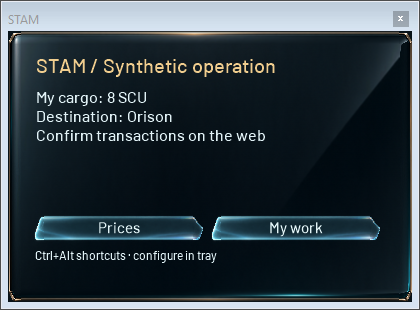
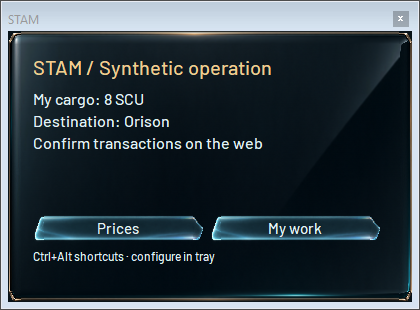
Document verified medium fonts and panorama Windows captures

diff --git a/PROJECT_STATUS.md b/PROJECT_STATUS.md
@@ -1,10 +1,10 @@
-## 2026-11-17 연출 — 앱 1.5 네이티브 디자인 완료 / 미배포
+## 2026-11-17 연출 — 앱 확정 글꼴·사업부 배경 수정 / 미배포
 
-`cinematic/companion-15-design-20261117`, PR #41. 최신 기능 인계 `434b50e`에서 분기해 실제 Windows 앱에 승인 D 검은 유리·금색 프레임, A 금속 계기판, 청록 버튼 원본 PNG를 적용했다. 글자는 기존 Barlow/SUIT 네이티브 컨트롤이며 원본 STAM 로고를 사용한다. 앱 창에서 기존 오버레이·단축키·마이크 기능을 열 수 있고 트레이 동작을 유지한다. 바깥 프레임 고정·작은 창 본문 스크롤·버튼 투명 배경을 실제 캡처로 마감했다.
+`cinematic/companion-15-design-20261117`, PR #41. 확정 서체 Barlow Medium 500·SUIT Medium 500 원본 파일을 유지하면서 Windows GDI TextRenderer/ClearType 표시로 변경했다. 실제 선택 폰트와 굵기 500을 Windows에서 검사하고 증거를 저장했다. 연결 창 배경은 승인 사업부 전경 원본으로 교체했으며 오버레이·설정창의 기존 검은 유리 배경은 유지한다. 기존 D 프레임·A 계기판·청록 버튼과 로그/트레이/음성/단축키 기능은 보존한다.
 
-Windows 검증 코드 `1db50ad9c4d5414197d44dcdcbff388275e4b3b9`, 실행 `44095313988` 성공: 컴파일·Node 8개·번들 로그 연결·언어·트레이/재시작·단축키/오버레이·설치/재설치/제거 설정 보존 확인. 한영 기본/작은 창/하단 및 오버레이 캡처 8장 저장. 실제 게임·마이크·다중 모니터 고배율은 미검증이다.
+Windows 검증 코드 `1616a772956129f350993847e3061d39592faf76`, 실행 `44099416549` 성공: 컴파일·Node 8개·번들 로그 연결·언어·트레이/재시작·단축키/오버레이·설치/재설치/제거 설정 보존·실제 Barlow/SUIT Medium 500 선택 확인. 한영 기본/작은 창/하단 및 오버레이 캡처 8장 갱신. 실제 게임·마이크·다중 모니터 고배율은 미검증이다.
 
-인계: `docs/cinematics/companion-15-design-20261117/HANDOFF.md`. #36에서 에셋만 재사용했으며 이전 앱 코드는 복원하지 않았다. 웹 무역 튜토리얼 #40과 독립. 웹·로그 파서·계정·운송/무역·프로토콜·공개 버전/다운로드는 보존. main·공통 인계 병합 및 공개 배포 없음. 기능 담당이 새 앱 릴리스 버전을 정해 통합·검증·배포한다.
+인계: `docs/cinematics/companion-15-design-20261117/HANDOFF.md`. #36에서 승인 에셋만 재사용했으며 이전 앱 코드는 복원하지 않았다. 웹 무역 튜토리얼 #40과 독립. 웹·로그 파서·계정·운송/무역·프로토콜·공개 버전/다운로드는 보존. main·공통 인계 병합 및 공개 배포 없음. 기능 담당이 새 앱 릴리스 버전을 정해 통합·검증·배포한다.
 
 ## 2026-11-17 배포 완료 — 웹3.1.0 / 로그 앱1.5
 

diff --git a/desktop/theme/README.md b/desktop/theme/README.md
@@ -6,4 +6,6 @@ These PNGs are byte-for-byte copies of the approved material assets preserved in
 - `flight-console-a-frame.png`: A recessed metal instrument, live connection status.
 - `hologram-button.png`: earlier cyan glass button, common native actions.
 
-`DeckTheme.cs` samples the original images and scales their nine regions at runtime, preserving frame thickness. Text stays in native controls using bundled Barlow/SUIT. These are not redrawn line-and-shape replacements. `scripts/build-desktop.mjs` explicitly includes all three materials in the installer/ZIP payload.
+`DeckTheme.cs` samples the original images and scales their nine regions at runtime, preserving frame thickness. Text stays in native controls using bundled Barlow/SUIT. These are not redrawn line-and-shape replacements. `scripts/build-desktop.mjs` explicitly includes the three materials and the panorama in the installer/ZIP payload.
+
+`division-overview.png` is a byte-for-byte copy of `apps/control-room/src/assets/division/overview-approved.png`. It fills only the main connection window, with a dark readability overlay; the overlay window and settings retain their existing backgrounds.

diff --git a/desktop/fonts/README.md b/desktop/fonts/README.md
@@ -3,3 +3,5 @@
 - Barlow Medium: unchanged `apps/control-room/src/assets/fonts/Barlow-Medium.ttf` (SIL OFL).
 - SUIT Medium: unchanged static font from https://github.com/sun-typeface/SUIT/releases/download/v2.0.5/SUIT-ttf.zip (SIL OFL). Use the official static font for .NET Framework rather than modifying a variable font under its reserved name.
 - Both weights are 500, matching the approved web typography. Latin-only labels/numeric metrics use Barlow; Korean copy uses SUIT. No OS-wide font installation. Font files and licenses ship inside the app.
+
+Rendering uses Windows GDI TextRenderer with ClearType. The bundled fonts are registered in process-private memory for both GDI and GDI+; no system installation is performed. The Windows capture check selects each font into a native HDC and asserts GetTextFace is Barlow/SUIT Medium and GetTextMetrics weight is 500. Evidence: `docs/cinematics/companion-15-design-20261117/review/font-selection.json`.
